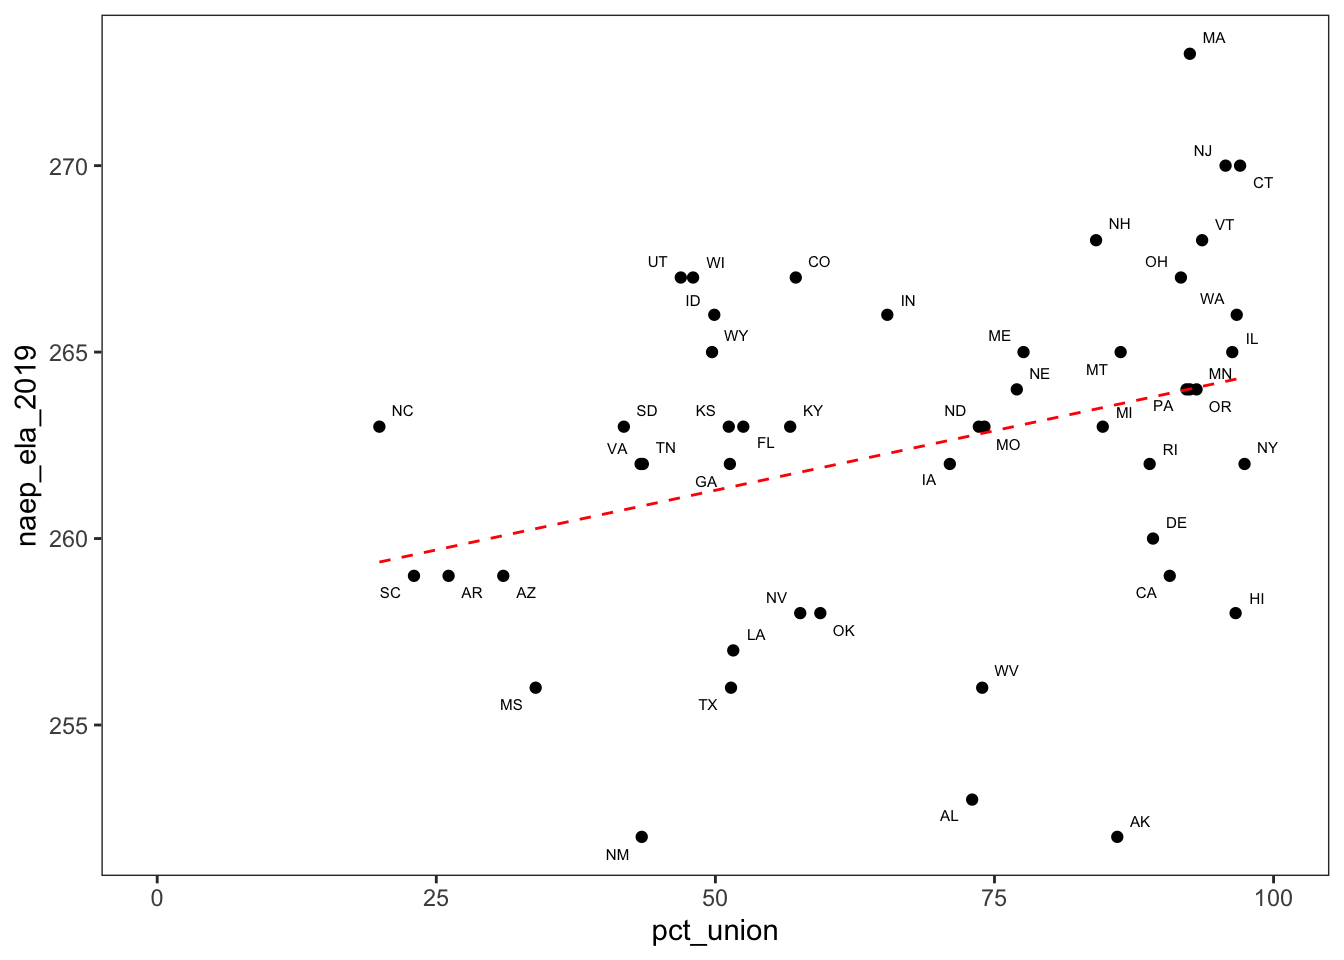
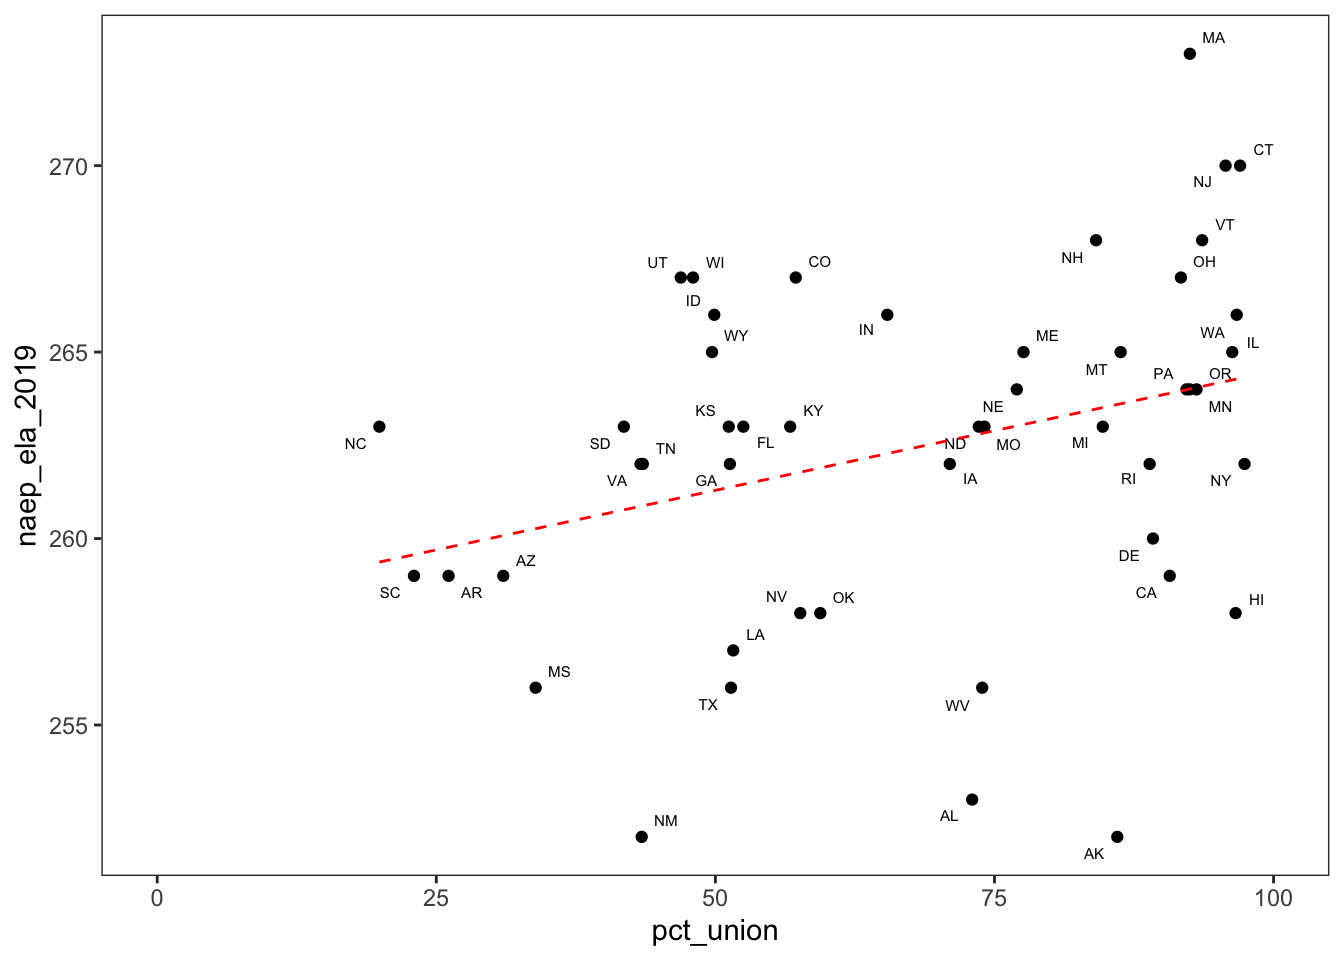
one more try

diff --git a/content/post/2021-05-17-unionization-and-naep-data/index.html b/content/post/2021-05-17-unionization-and-naep-data/index.html
@@ -1,11 +1,12 @@
 ---
-title: Unionization and NAEP Data
-author: R package build
+title: "Teacher Unions and Test Scores"
+author: "R package build"
 date: '2021-05-17'
 slug: unionization-and-naep-data
-categories: []
+categories: data-exploration
 tags: []
-description: ''
+description: Explore state-level teacher unionization rates and student math/reading
+  performance
 ---
 
 <script src="{{< blogdown/postref >}}index_files/header-attrs/header-attrs.js"></script>
@@ -18,7 +19,7 @@ description: ''
 </div>
 <div id="standard-correlation-vs.-causation-caveat" class="section level1">
 <h1>Standard Correlation vs. Causation Caveat</h1>
-<p>These data are purely correlational. Any inferences made based these charts should be taken with a grain of salt!</p>
+<p>Of course, I need to start with the caveat that these data are purely correlational. Any inferences made based these charts should be taken with a grain of salt!</p>
 </div>
 <div id="finding-test-scores-data" class="section level1">
 <h1>Finding Test Scores Data</h1>
@@ -27,7 +28,7 @@ description: ''
 <p>I used NAEP data for the state-level math and reading scores.<br />
 <a href="https://nces.ed.gov/nationsreportcard/about/">NAEP</a> stands for National Assessment of Education Progress. It is administered by the NCES (National Center for Education Statistics ) to students across the United States. It is often referred to as the “Nation’s Report Card” for several reasons:</p>
 <ol style="list-style-type: decimal">
-<li>It is generally considered to be high quality</li>
+<li>It is generally considered to be high quality.</li>
 <li>It has been administered every few years since 1969.</li>
 <li>Unlike high stakes exams, the same test is administered across the nation.</li>
 </ol>
@@ -42,11 +43,11 @@ description: ''
 <div id="unionization-data" class="section level3">
 <h3>Unionization Data</h3>
 <p>After a great deal of searching, I was able to find 2017-2018 state-level unionization rates from the <a href="https://nces.ed.gov/surveys/ntps/tables/ntps1718_20111201_t1s.asp">National Teacher and Principal Survey</a>.
-Unfortunately, there was no data from Maryland or DC due to low response rates.</p>
+Unfortunately, there were no data from Maryland or DC due to low response rates.</p>
 </div>
 <div id="naep-data" class="section level3">
 <h3>NAEP Data</h3>
-<p>The NAEP data was much easier to find. There is an easy-to-use <a href="https://www.nationsreportcard.gov/ndecore/xplore/NDE">data portal</a> on their website. You can simply select the year, grade-level, subject, and jurisdiction you are looking for. I used this tool to create two state-level datasets with the 2019 math and reading NAEP results.</p>
+<p>TFinding NAEP test data was much simpler. There is an easy-to-use <a href="https://www.nationsreportcard.gov/ndecore/xplore/NDE">data portal</a> on their website. You can select the year, grade-level, subject, and jurisdiction you are looking for. I used this tool to create two state-level datasets with the 2019 math and reading NAEP results.</p>
 <pre class="r"><code>library(dplyr)
 library(ggplot2)
 library(ggrepel)
@@ -80,7 +81,7 @@ ed_dta %&gt;%  head()</code></pre>
 <h1>Visualizations</h1>
 <div id="reading-tests-and-unionization" class="section level2">
 <h2>Reading Tests and Unionization</h2>
-<p>I used ggplot to create a scatterplot of ELA NAEP scores over unionization rates by state. I used the geom_text_repel() function from Kamil Slowikowski’s <a href="https://cran.r-project.org/web/packages/ggrepel/vignettes/ggrepel.html">ggrepel)</a> to ensure that there none of the labels overlap one another. Finally, I used geom_smooth to create a fitted OLS regression line.</p>
+<p>I used ggplot to create a scatterplot of NAEP reading scores over unionization rates by state. I used the geom_text_repel() function from Kamil Slowikowski’s <a href="https://cran.r-project.org/web/packages/ggrepel/vignettes/ggrepel.html">ggrepel</a> package to ensure that none of the labels overlapped. Finally, I used geom_smooth to create a fitted OLS regression line.</p>
 <pre class="r"><code>ed_dta %&gt;% 
   filter_all(~!is.na(.)) %&gt;% 
   ggplot(aes(x=pct_union, y= naep_ela_2019, label = state)) +
@@ -95,8 +96,8 @@ ed_dta %&gt;%  head()</code></pre>
   theme(panel.grid = element_blank())+
   scale_x_continuous(limits = c(0,100)) </code></pre>
 <p><img src="{{< blogdown/postref >}}index_files/figure-html/ela_union_plot-1.png" width="672" /></p>
-<p>Based on the graph, there may be a correlation between ELA NAEP and unionization although again. Of course,we know that correlation is not causation!</p>
-<p>However, you could argue that if we remove Massachusetts and the trend line, the positive relationship would not be so apparent. Massachusetts has traditionally been the state with highest test scores, and, as do many other states in the Northeast, it also happens to have a high unionization rate.</p>
+<p>Based on the graph, there may be a correlation between NAEP reading scores and unionization. Of course, as I’ve already warned, correlation does not imply causation! There could be a third variable that explains both high unionization rates and high reading test scores.</p>
+<p>Even the correlation between the two variables may be suspect. For example, you could argue that if we remove Massachusetts and the trend line, the positive relationship would not be so apparent.</p>
 <pre class="r"><code>cor(ed_dta$naep_ela_2019, ed_dta$pct_union, use = &#39;complete.obs&#39;)  %&gt;%  round(2)</code></pre>
 <pre><code>## [1] 0.32</code></pre>
 <p>The correlation between state-level NAEP reading scores and unionization is .32, which is weak to moderate.</p>
@@ -121,11 +122,11 @@ summary(fit)</code></pre>
 ##   (2 observations deleted due to missingness)
 ## Multiple R-squared:  0.1034, Adjusted R-squared:  0.08437 
 ## F-statistic: 5.423 on 1 and 47 DF,  p-value: 0.02422</code></pre>
-<p>The coefficient of unionization is statistically significant. Of course, this evidence is just correlational, so we shouldn’t overinterpret this result.</p>
+<p>The coefficient of unionization is statistically significant. Once final warning, this evidence is just correlational, so we shouldn’t read too much into it.</p>
 </div>
 <div id="math-tests-and-unionization" class="section level2">
 <h2>Math Tests and Unionization</h2>
-<p>I also plotted NAEP math scores over unionization. The correlation appears to be weaker based on the scatterplot.</p>
+<p>I also plotted NAEP math scores over unionization. Based on the scatterplot, math test scores do not seem to be as strongly correlated with unionization as reading test scores were.</p>
 <pre class="r"><code>ed_dta %&gt;% 
   filter_all(~!is.na(.)) %&gt;% 
   ggplot(aes(x=pct_union, y= naep_mth_2019, label = state)) +
@@ -181,8 +182,8 @@ ed_dta %&gt;%
 <pre><code>##    state_name naep_mth_rnk_2019 naep_ela_rnk_2019
 ## 1 Connecticut                 9                 2
 ## 2   Minnesota                 3                17</code></pre>
-<p>I decided explore the relationship between reading and math scores by creating another scatterplot with reading scores on the y-axis and math scores on the x-axis.
-In this plot, the relationship between reading and math test scores are clearly more highly correlated than the relationships we saw in the previous plots.</p>
+<p>I decided to explore the relationship between reading and math scores by creating another scatterplot with reading scores on the y-axis and math scores on the x-axis.
+Based on this scatterplot,we can see that reading and math test scores are highly correlated.</p>
 <pre class="r"><code>ed_dta %&gt;% 
   ggplot(aes(x=naep_mth_2019, y= naep_ela_2019, label = state)) +
   geom_point() +
@@ -195,7 +196,10 @@ In this plot, the relationship between reading and math test scores are clearly 
   theme_bw() +
   theme(panel.grid = element_blank()) </code></pre>
 <p><img src="{{< blogdown/postref >}}index_files/figure-html/ela_math_plot-1.png" width="672" /></p>
-<p>The relationship between math and reading NAEP scores was statistically significant, as was fairly obviously from the scatterplot as well.</p>
+<p>The Pearson correlation coefficient was 0.89, indicating a strong correlation between the two. This high correlation coefficient is consistent with the scatterplot.</p>
+<pre class="r"><code>cor(ed_dta$naep_mth_2019, ed_dta$naep_ela_2019) %&gt;%  round(2)</code></pre>
+<pre><code>## [1] 0.89</code></pre>
+<p>Finally, the relationship between math and reading NAEP scores was also statistically significant.</p>
 <pre class="r"><code>fit &lt;- ed_dta %&gt;%  
   lm(formula =naep_ela_2019 ~ naep_mth_2019)
 summary(fit)</code></pre>
@@ -217,13 +221,10 @@ summary(fit)</code></pre>
 ## Residual standard error: 2.239 on 49 degrees of freedom
 ## Multiple R-squared:  0.7913, Adjusted R-squared:  0.787 
 ## F-statistic: 185.8 on 1 and 49 DF,  p-value: &lt; 2.2e-16</code></pre>
-<p>The Pearson correlation coefficient was 0.89, indicating a strong correlation between the two.</p>
-<pre class="r"><code>cor(ed_dta$naep_mth_2019, ed_dta$naep_ela_2019) %&gt;%  round(2)</code></pre>
-<pre><code>## [1] 0.89</code></pre>
 </div>
 <div id="ploting-math-and-ela-with-unionization-as-a-categorical-factor" class="section level2">
 <h2>Ploting Math and ELA with Unionization as a Categorical Factor</h2>
-<p>In order to retain the unionization rates, I created a factor that binned this variable into two categorizes based on an 80% threshold.</p>
+<p>To explore unionization rates while plotting reading over math test scores, I created a factor that binned unionization into two categorizes based on an 80% threshold.</p>
 <pre class="r"><code>ed_dta &lt;-ed_dta %&gt;% 
   mutate(unionized = as.factor(if_else(pct_union &gt;= 80,  &quot;80% or Above&quot;, &quot;Below 80%&quot;)))
 
@@ -243,28 +244,28 @@ summary(fit)</code></pre>
   theme(panel.grid = element_blank())  +
     scale_color_manual(values = c(&#39;blue&#39;, &#39;red&#39;))</code></pre>
 <p><img src="{{< blogdown/postref >}}index_files/figure-html/unnamed-chunk-2-1.png" width="672" /></p>
-<p>One interesting about this final graph was that Wisconsin was the only state in the Great Lakes region that had a unionization rate below 80%. Also among the states below the 80% unionization threshold, it had the highest math score and among the highest reading scores. Plotting reading and math together gives a fuller picture of student performance.</p>
+<p>You can explore a lot of things in this graph. One thing I found interesting was that Wisconsin was the only state in the Great Lakes region that had a unionization rate below 80%. Also, among the states below the 80% unionization threshold, it had the highest math score and among the highest reading scores. I think this graph shows how plotting reading and math along the y and x axes provides a fuller picture of student performance.</p>
 </div>
 </div>
 <div id="why-do-students-in-minnesota-peform-better-in-math-than-reading" class="section level1">
 <h1>Why Do Students in Minnesota Peform Better in Math than Reading?</h1>
-<p>Of course, it’s not very surprising that reading and math scores are highly correlated . What I find more interesting are the states in which students performed better in one subject than the other. For example, Alaska, Texas, and Minnesota seem to have much lower ELA scores than you would expect given their math scores. This is apparent based on how far they lie below the regression line. On the other hand, based on how far it lies above the regression, Connecticut has much lower math scores given what you predict given its reading scores.</p>
-<p>Observing these outliers generates some new interesting questions that I hadn’t thought about when I first tackled.</p>
+<p>Of course, it’s not very surprising that reading and math scores are highly correlated . What I find more interesting are the states in which students performed better in one subject than the other. For example, Alaska, Texas, and Minnesota seem to have much lower ELA scores than you would expect given their math scores. This is apparent based on how far they lie below the regression line. On the other hand, based on how far it lies above the regression, Connecticut has much lower math scores than what you predict given its reading scores.</p>
+<p>Observing these outliers generates some new interesting questions that I hadn’t thought about when I first started working with these data.</p>
 <ul>
 <li>
-Why do some states do better on one subject compared to another? Or is this just noise?
+Do some states do better on one subject compared to another? Or is this just noise?
 </li>
 <li>
-Is there something about Texas, Alaska, and Minnesota that explains their in math relative to reading?
+Is there some common factor about Texas, Alaska, and Minnesota that explains their better performance in math? Or are there different factors for each state?
 </li>
 </ul>
-<p>Although the initial question about teacher unions was intersting, these new questions about discrepancies reading/math performance may contain more unexplored territory.</p>
+<p>These new questions about discrepancies in reading/math performance may contain more unexplored territory than the often discussed topic of teacher unions.</p>
 </div>
-<div id="conlusions" class="section level1">
-<h1>Conlusions</h1>
+<div id="conclusions" class="section level1">
+<h1>Conclusions</h1>
 <ol style="list-style-type: decimal">
-<li><p>Running into obstacles while trying new things can open new doors. Having difficulty creating plots without overlapping state labels led me to find ggrepel, which is a really cool package.</p></li>
-<li><p>Sometimes, exploring data can lead to more interesting questions than you had a priori.</p></li>
-<li><p>It is often useful to explore as more than one dimension. The math/reading scatterplots helped us to look at two dimension of student performance that weren’t evident in the first two plots.</p></li>
+<li><p>Running into obstacles while trying new things can open new doors. Having difficulty creating plots without overlapping state labels led me to discover the ggrepel package.</p></li>
+<li><p>Sometimes, exploring data can lead to new questions that are more interesting than your original question.</p></li>
+<li><p>It is often useful to explore a construct on more than one dimension. The reading over math scatterplots helped us to simultaneously look at two dimensions of student performance.</p></li>
 </ol>
 </div>
